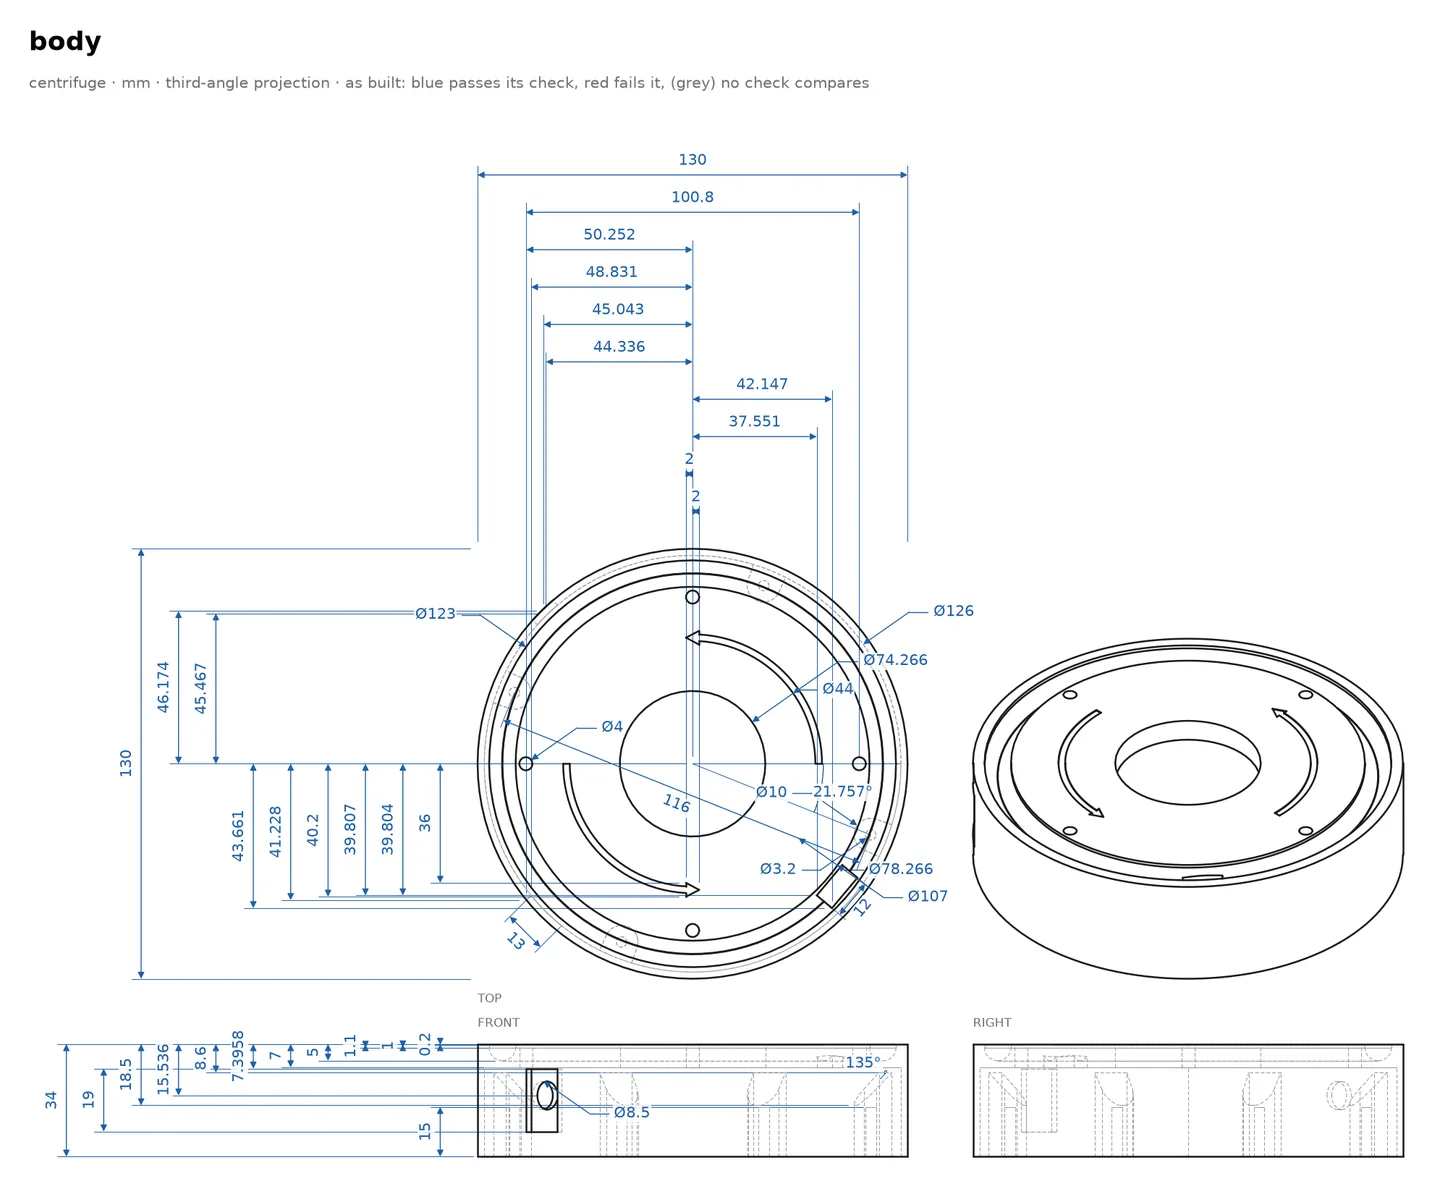
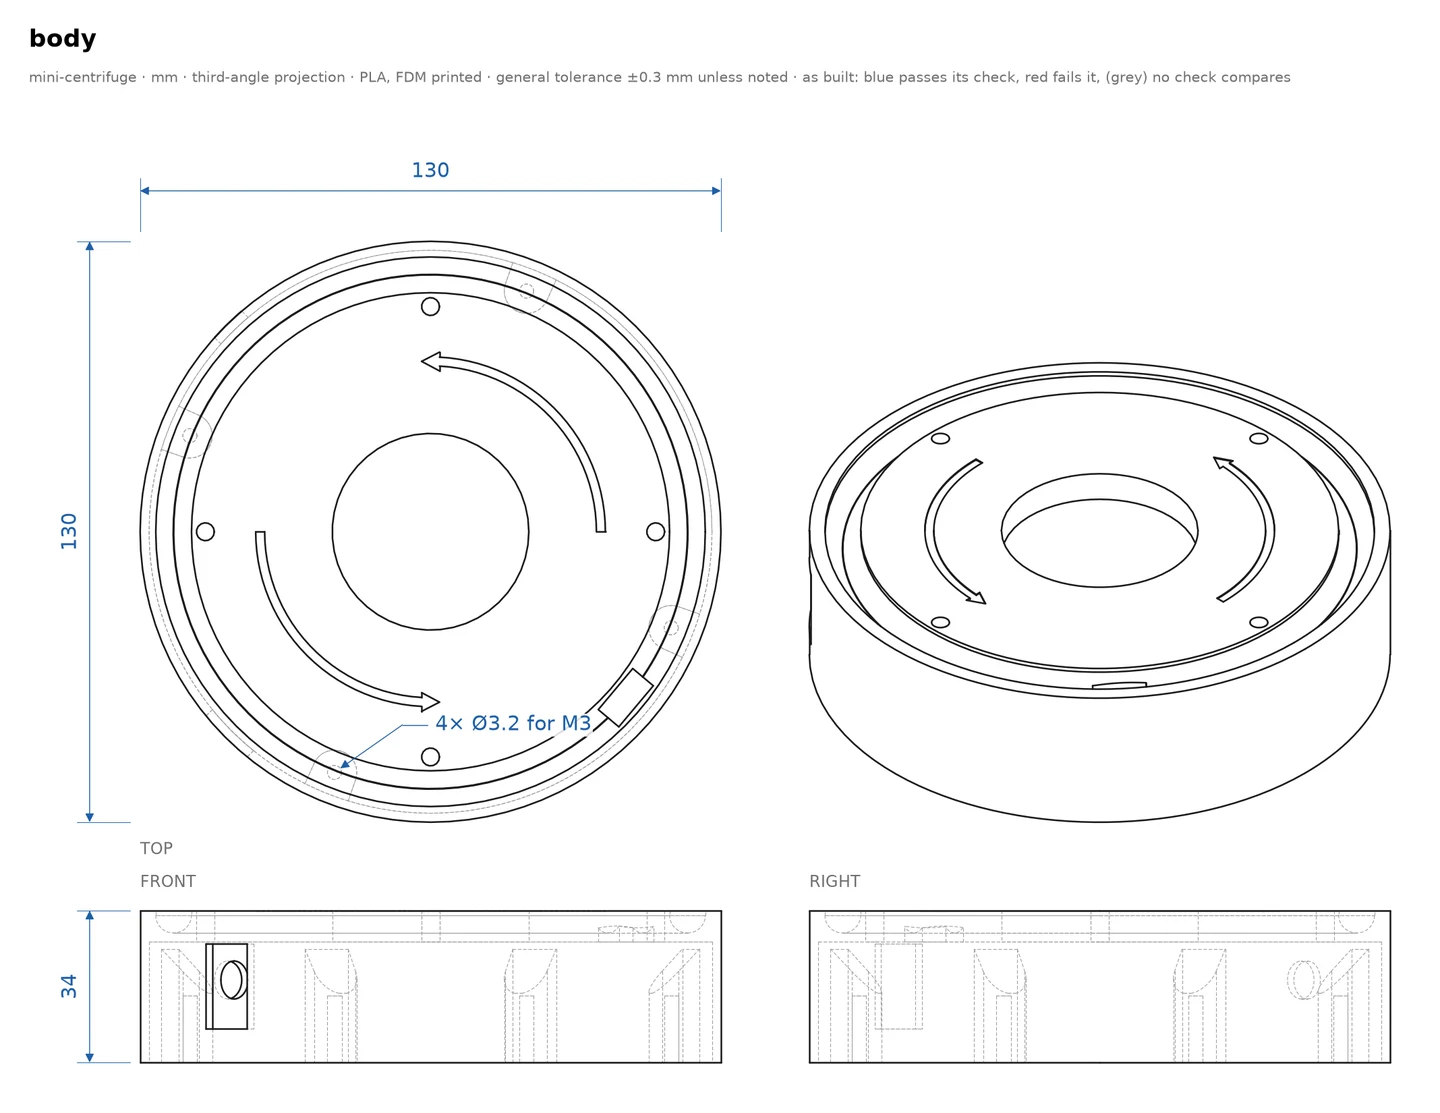
The centrifuge's pictures show this model, and its files are CC BY
The render shows the six-tube rotor with the lid off, and the body's drawing is this build's. The design files go by their Mendeley Data record, at the owner's word.

Part of #256.

diff --git a/README.md b/README.md
@@ -111,7 +111,7 @@ VERIFIED means every number is accounted for and the geometry matches every chec
 
 <table>
 <tr>
-<td width="230"><a href="examples/centrifuge"><img src="docs/images/centrifuge.webp" alt="A round printed centrifuge body with an amber rotor holding two PCR strips"></a></td>
+<td width="230"><a href="examples/centrifuge"><img src="docs/images/centrifuge.webp" alt="A round printed centrifuge body, its lid off, with an amber six-tube rotor on the fan's hub"></a></td>
 <td><b><a href="examples/centrifuge">Benchtop centrifuge</a></b><br><sub>Poór, <a href="https://doi.org/10.1016/j.ohx.2022.e00328"><i>HardwareX</i> 2022</a></sub><br><br>Printed parts with their switch and fan cut-outs, rebuilt from the authors' STEP files, with a plan to make it. 95 of its 133 parameters rest on sources, and the other 38 on proposed values, each traced to the question that would settle it. It runs in about 25 seconds.</td>
 </tr>
 <tr>

diff --git a/examples/centrifuge/README.md b/examples/centrifuge/README.md
@@ -26,4 +26,4 @@ The run earns no warnings and ended at VERIFIED PENDING REVIEW. A named reviewer
 
 The paper and the twelve STEP files are committed, so a fresh clone needs no download. The STL the authors publish beside each STEP file holds the same body and is not registered.
 
-The paper is CC BY 4.0. Mendeley Data lists the design files as CC BY 4.0, and the paper's own table lists them as CC BY-SA 4.0. The crops are reproduced from Figs. 3, 8 and 10 of the article, credit Viktor Soma Poór 2022.
+The paper is CC BY 4.0, and so are the design files, as their Mendeley Data record states. The crops are reproduced from Figs. 3, 8 and 10 of the article under CC BY 4.0, credit Viktor Soma Poór 2022.
